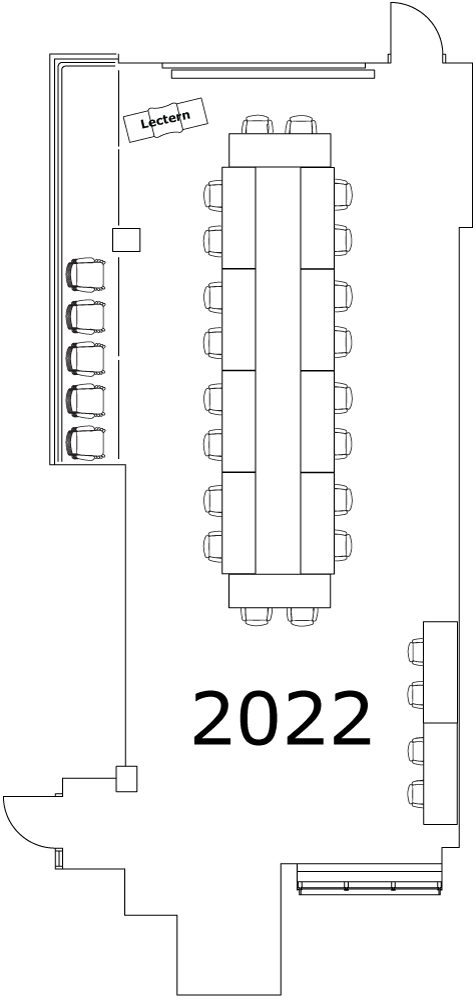
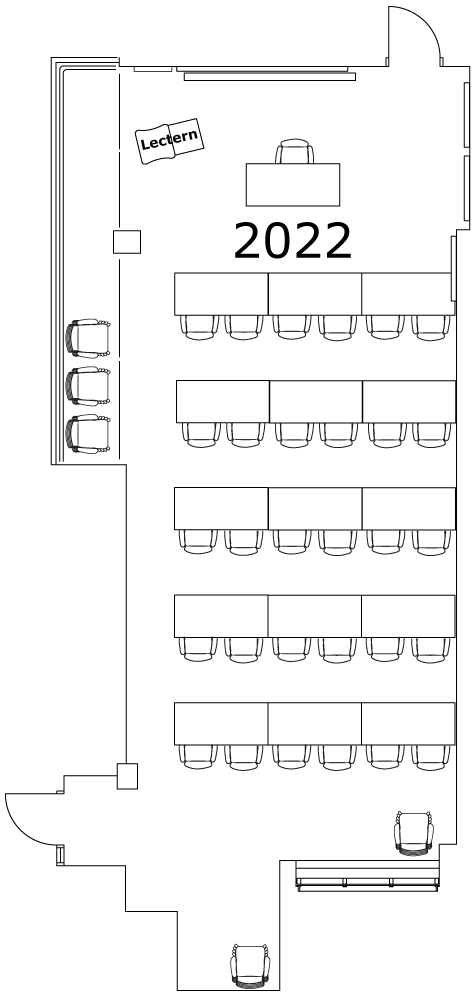
Update seating chart for STB2022

diff --git a/app/assets/stylesheets/variables.sass b/app/assets/stylesheets/variables.sass
@@ -1,0 +1,42 @@
+$um_blue: #00274c
+$um_maize: #ffcb05
+$puma_black: #111b23
+$law_quad_stone: #655a52
+$the_rock_gray: #6a6d68
+$angell_hall_ash: #7a6e66
+$dark_grey: #333
+$grey: #555
+$tappan_red: #b51e0a
+$hill_brown: #7a121c
+$archway_ivy: #7e732f
+$burton_tower_beige: #797852
+$umma_tan: #766536
+$observatory_white: #6d675d
+$pea_soup: #886b01
+$greyb: #6a6a6a
+$greyc: #6f767a
+$ross_school_orange: #ac5f00
+$lsa_orange: #ac5600
+$wave_field_green: #797500
+$arboretum_blue: #006ab8
+$canham_pool_blue: #4568ae
+$deep_blue: #002a5b
+$semi_deep_blue: #027494
+$blue: #0257aa
+$heather_blue: #465d85
+$rich_heather_blue: #40658f
+$taubman_teal: #007474
+$rackham_roof_green: #48736a
+$ann_arbor_amethyst: #702490
+$matthaei_violet: #575294
+$south_forrest_green: #18453b
+$huron_river_green: #0c5832
+$spring_term_green: #00743c
+
+$navbarBackground: #FFF
+$navbarBackgroundHighlight: #FFF
+$navbarLinkColorHover: #3A5AA0
+$font-size-base: 15px
+$navbarLinkBackgroundActive: #f8f5e4
+$navbarCollapseWidth: 720px
+$alert: #8F0900

diff --git a/app/assets/stylesheets/users.scss b/app/assets/stylesheets/users.scss
@@ -1,0 +1,3 @@
+// Place all the styles related to the User controller here.
+// They will automatically be included in application.css.
+// You can use Sass (SCSS) here: http://sass-lang.com/
